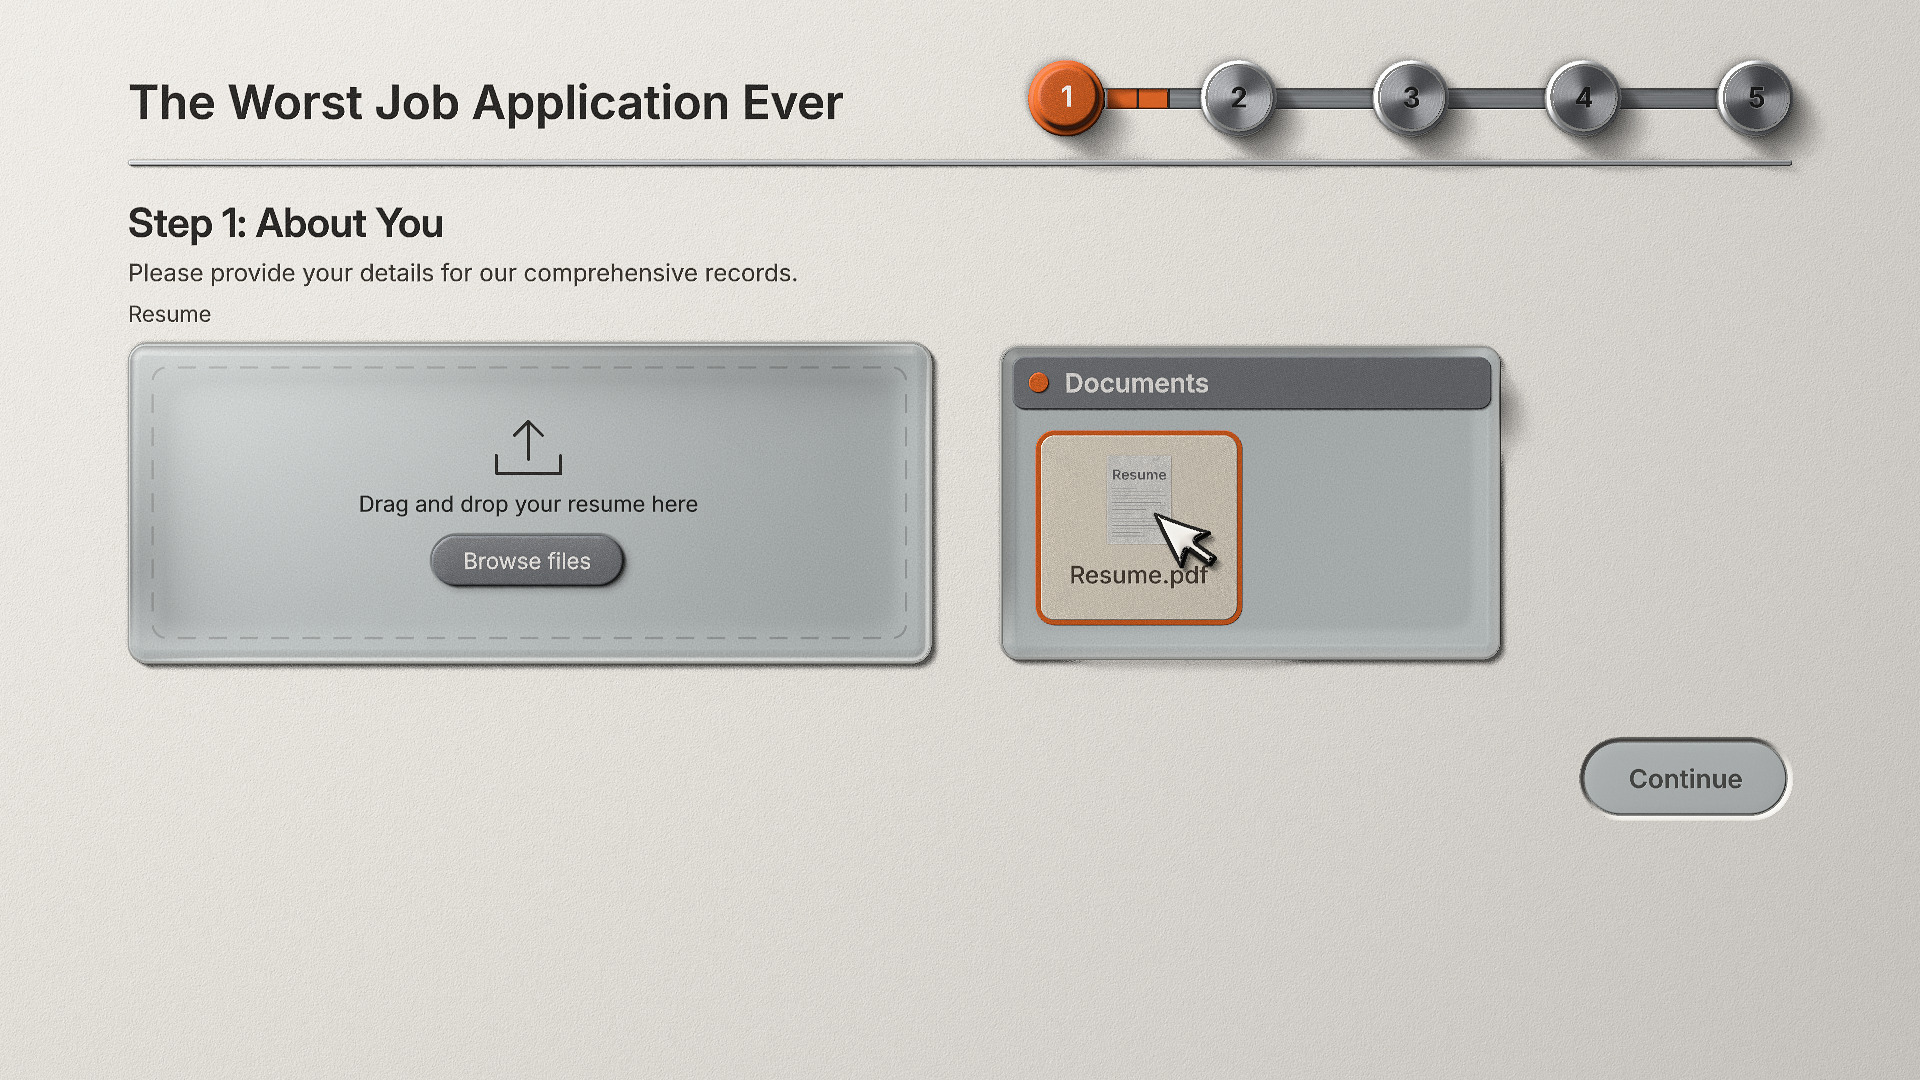
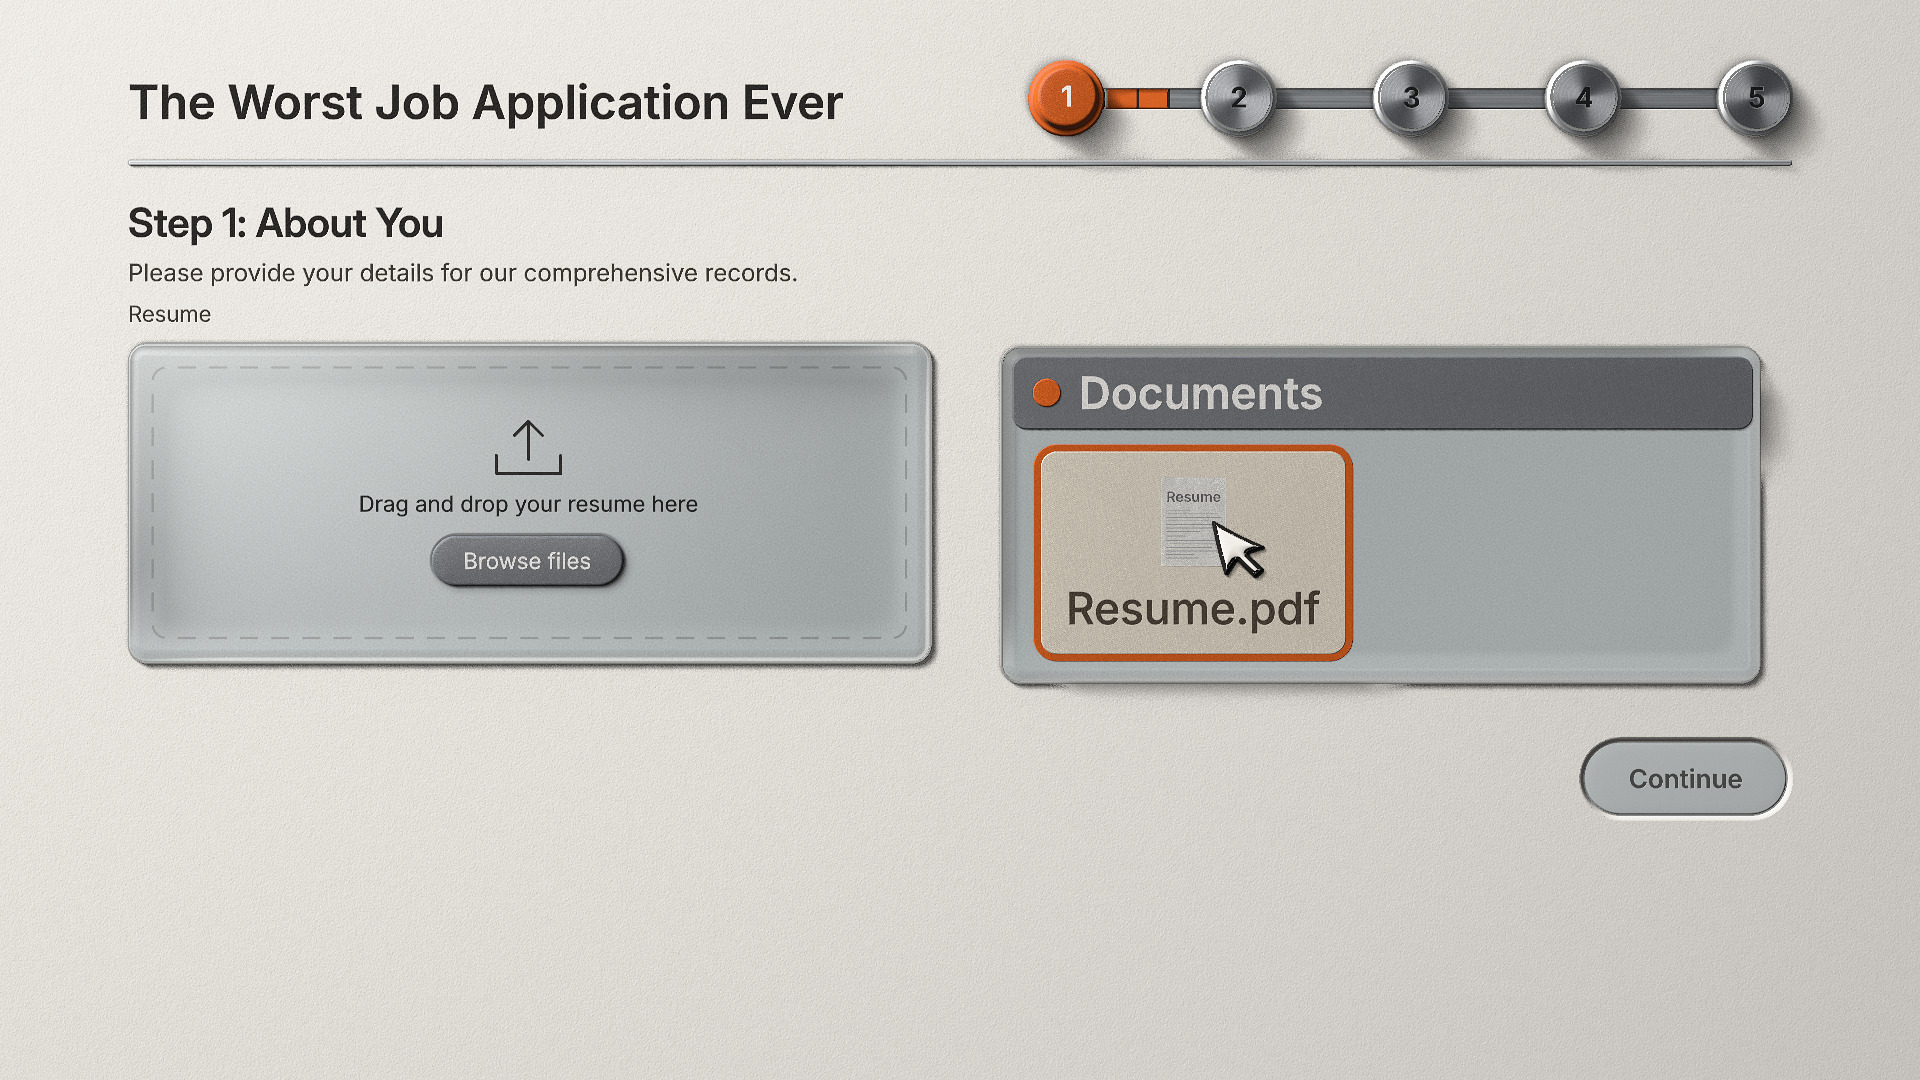
Resume stage: the folder window 760 px wide with its two words 32 px high, the ring lights when the drawn arrow is on the tile, the arrow no longer covers the file's name

Changed region(s): [[0.5, 0.3056, 0.9375, 0.6417]]

diff --git a/src/pages/step1/resume/layout.ts b/src/pages/step1/resume/layout.ts
@@ -20,15 +20,15 @@ export const ZONE = { x: LEFT, y: HEADER.contentY + 36, w: COL_W, h: ZONE_H }
 export const FORM_BOTTOM = ZONE.y + ZONE.h
 export const PAPER = { w: 64, h: 88, inset: 5, top: 14, bar: 2 }
 // The folder window: a pane of glass that comes up out of the page on the bare half beside the drop zone, with a bar across its head, a knob on the bar, and one tile that holds the one file. `top` is how high the pane stands once it is up.
-export const WIN = { x: HALF_X + 12, y: ZONE.y + 4, w: 500, h: 314, r: 18, top: heights.card + 2 }
-export const BAR = { inset: 12, h: 52, up: 5, r: 12, knob: 20 }
-export const TILE = { x: WIN.x + 40, y: WIN.y + BAR.inset + BAR.h + 26, w: 196, h: 184, r: 14, up: 3 }
+export const WIN = { x: HALF_X + 12, y: ZONE.y + 4, w: 760, h: 338, r: 20, top: heights.card + 2 }
+export const BAR = { inset: 12, h: 72, up: 5, r: 14, knob: 28 }
+export const TILE = { x: WIN.x + 40, y: WIN.y + BAR.inset + BAR.h + 22, w: 304, h: 202, r: 16, up: 3, gap: 26 }
 // The rim that lights round the tile under the arrow and when the file is picked: orange, this far outside the tile and this high.
-export const RING = { out: 5, up: 1.2 }
+export const RING = { out: 7, up: 1.2 }
 // The sheet lies in the tile as the file's own picture, and comes down in the drop zone on its upload mark.
-export const PAPER_REST = { x: TILE.x + (TILE.w - PAPER.w) / 2, y: TILE.y + 20 }
-export const FILE_TYPE = { font: 'inter-500', px: 24, align: 'centre' as const }
-export const WIN_TYPE = { font: 'inter-600', px: 26 }
+export const PAPER_REST = { x: TILE.x + (TILE.w - PAPER.w) / 2, y: TILE.y + 26 }
+export const FILE_TYPE = { font: 'inter-500', px: 44, align: 'centre' as const }
+export const WIN_TYPE = { font: 'inter-600', px: 44 }
 export const PAPER_TITLE = { font: 'inter-600', px: 14 }
 export const PAPER_LINES = [0.36, 0.44, 0.52, 0.6, 0.7, 0.78, 0.86]
 export const SLOT = { w: 96, h: 10, cx: ZONE.x + ZONE.w * 0.84, cy: FORM_BOTTOM + 9 }
@@ -78,11 +78,11 @@ export const landing = (): { x: number; y: number } => ({ x: ZONE.x + ZONE.w / 2
 export function folderNode(): LayoutNode {
   const bar = { x: WIN.x + BAR.inset, y: WIN.y + BAR.inset, w: WIN.w - BAR.inset * 2, h: BAR.h }
   const barTop = WIN.top + BAR.up
-  const knob = node('resume-folder-knob', 'knob', [bar.x + 16, bar.y + (bar.h - BAR.knob) / 2, BAR.knob, BAR.knob], { part: 'shell', shape: 'disc', floor: barTop, height: barTop + 4, tone: 'accent' })
-  const title = text('resume-folder-title', 'copy:drafts.step1.resume.folderTitle', WIN_TYPE, bar.x + 16 + BAR.knob + 16, bar.y + (bar.h - cap(WIN_TYPE.font, WIN_TYPE.px)) / 2, { part: 'type', on: barTop, tone: 'inkLight' })
+  const knob = node('resume-folder-knob', 'knob', [bar.x + 20, bar.y + (bar.h - BAR.knob) / 2, BAR.knob, BAR.knob], { part: 'shell', shape: 'disc', floor: barTop, height: barTop + 4, tone: 'accent' })
+  const title = text('resume-folder-title', 'copy:drafts.step1.resume.folderTitle', WIN_TYPE, bar.x + 20 + BAR.knob + 18, bar.y + (bar.h - cap(WIN_TYPE.font, WIN_TYPE.px)) / 2, { part: 'type', on: barTop, tone: 'inkLight' })
   const head = node('resume-folder-bar', 'windowBar', [bar.x, bar.y, bar.w, bar.h], { part: 'shell', r: BAR.r, floor: WIN.top, height: barTop, tone: 'metal', children: [knob, title] })
   const tileTop = WIN.top + TILE.up
-  const name = text('resume-file-name', 'copy:drafts.step1.resume.fileName', FILE_TYPE, TILE.x + TILE.w / 2, PAPER_REST.y + PAPER.h + 22, { part: 'type', on: tileTop })
+  const name = text('resume-file-name', 'copy:drafts.step1.resume.fileName', FILE_TYPE, TILE.x + TILE.w / 2, PAPER_REST.y + PAPER.h + TILE.gap, { part: 'type', on: tileTop })
   const tile = node('resume-file', 'fileTile', [TILE.x, TILE.y, TILE.w, TILE.h], { part: 'shell', r: TILE.r, floor: WIN.top, height: tileTop, tone: 'raised', children: [name] })
   return node('resume-folder', 'card', [WIN.x, WIN.y, WIN.w, WIN.h], { part: 'shell', r: WIN.r, height: WIN.top, over: true, states: ['folder'], children: [head, tile] })
 }

diff --git a/src/pages/step1/resume/index.ts b/src/pages/step1/resume/index.ts
@@ -212,7 +212,7 @@ export function makeResume(host: ResumeHost): ResumeStage {
     }
     if (f.at === 'folder') {
       const ready = f.t >= flow.pop * 0.6
-      f.lit = ready && inside(tile, io.pointer.x, io.pointer.y, GRAB / 2)
+      f.lit = ready && inside(tile, io.cursor.x, io.cursor.y, 0)
       if (ready && ((io.pressed && inside(tile, io.pointer.x, io.pointer.y, GRAB)) || (idle && f.t >= FLOW.wait))) {
         beat('lit')
         f.lit = true
@@ -794,7 +794,7 @@ export function makeResume(host: ResumeHost): ResumeStage {
         const flow = pace()
         if (s.phase === 'idle' || f.at === 'field') return { x: chip.x + chip.w / 2, y: chip.y + chip.h / 2, down: s.phase === 'resume' && blink }
         if (f.at === 'press') return { x: chip.x + chip.w / 2, y: chip.y + chip.h / 2, down: false }
-        if (f.at === 'folder') return { x: TILE.x + TILE.w / 2, y: TILE.y + TILE.h * 0.6, down: f.t >= flow.pop && blink }
+        if (f.at === 'folder') return { x: TILE.x + TILE.w / 2, y: PAPER_REST.y + PAPER.h / 2, down: f.t >= flow.pop && blink }
         return { x: stand.x, y: stand.y, down: false }
       }
       if (s.phase === 'tug') return { x: SLOT.cx - 90, y: SLOT.cy - 260, down: false }

diff --git a/src/pages/step1/resume/script.ts b/src/pages/step1/resume/script.ts
@@ -36,7 +36,7 @@ export const AFTER = { look: 3.35, up: [3.05, 2.45] as [number, number], under: 
 // The film before the bite, every time a second of the unit: a wind-up where it stands, a strut to Browse files, a look at the ordinary field, the press; a start at the folder, a walk to the file, the pick; proud, it struts back to stand by its sheet in the drop zone and dusts itself off; the wind makes it start and it runs after the sheet. `drop` is the second the wind lets the sheet go over the slot.
 export const RESUME = {
   leave: 19.9, walk: [20.1, 20.6] as [number, number], on: { x: 12, y: 6 }, press: 20.85,
-  see: 20.97, toFile: [21.06, 21.36] as [number, number], file: { x: 8, y: 14 }, pick: 21.5,
+  see: 20.97, toFile: [21.06, 21.36] as [number, number], file: { x: 12, y: 0 }, pick: 21.5,
   proud: 21.66, back: [21.76, 22.16] as [number, number], beside: { x: 58, y: 66 }, dust: 22.2,
   gust: 22.36, chase: [22.58, 23.02] as [number, number], near: { x: -96, y: -176 },
   raise: 0, high: 0, drop: 21.62 + LATE

diff --git a/pipeline/change002/resume.md b/pipeline/change002/resume.md
@@ -34,9 +34,11 @@ All from `content/copy-drafts.json`, none added, no file under `content/` edited
 
 | Word | Key | Stands on | Box of the words | Shown |
 | --- | --- | --- | --- | --- |
-| "Documents" | `copy.drafts.step1.resume.folderTitle` | the brushed bar of the folder window (bar x 1012, y 358, 476 by 52; window x 1000, y 346, 500 by 314, on the bare page right of the drop zone) | x 1064, y 375, 144 by 19 | from `folder-open` until the window sinks, 20.96 to 21.87 s in the film |
-| "Resume.pdf" | `copy.drafts.step1.resume.fileName` | the file tile in the folder window (tile x 1040, y 436, 196 by 184), under the small sheet | x 1069, y 566, 138 by 17 | with the window |
+| "Documents" | `copy.drafts.step1.resume.folderTitle` | the brushed bar of the folder window (bar x 1012, y 358, 736 by 72; window x 1000, y 346, 760 by 338, on the bare page right of the drop zone, 54 px over Continue) | x 1078, y 378, 243 by 32 | from `folder-open` until the window sinks, 20.96 to 21.87 s in the film |
+| "Resume.pdf" | `copy.drafts.step1.resume.fileName` | the file tile in the folder window (tile x 1040, y 452, 304 by 202), under the small sheet | x 1065, y 592, 253 by 32 | with the window |
 | "SHREDDER" | `copy.drafts.step1.resume.shredderLabel` | the orange plate on the bare page left of the slot (plate x 511, y 672, 226 by 52) | x 533, y 686, 182 by 25 | from the wind until the machine sinks after the message |
+
+The folder window was made larger, not longer, by the Builder's word of 23:19Z: 760 px wide where it was 500, its two words 32 px high where they were 19 and 17 (type 44 px), the tile 304 by 202; the seconds are the same. I chose the larger window over a nearer camera because the live site has no camera, and the film's camera would have had to go in and out again inside 0.9 s before its one move to the tug. The sheet in the tile keeps its real size, 64 by 88, so it is small beside its name. (MEASURED for the boxes, STATED for the reason)
 
 Words that were there before and are unchanged: "Resume", "Drag and drop your resume here", "Browse files", "Resume" on the sheet, "Resume received. Please re-enter all information manually."
 
@@ -126,7 +128,7 @@ One clean film frame of each stage at 1920 by 1080, home camera, draft tier, wit
 | --- | --- | --- |
 | `clean-1-browse-1920x1080.jpg` | the arrow presses Browse files | 20.90 |
 | `clean-2-folder-open-1920x1080.jpg` | the folder window is up | 21.20 |
-| `clean-3-file-picked-1920x1080.jpg` | the file is picked, ring lit (the arrow covers part of the file's name) | 21.56 |
+| `clean-3-file-picked-1920x1080.jpg` | the file is picked, ring lit | 21.56 |
 | `clean-4-slot-1920x1080.jpg` | the sheet lies in the drop zone | 22.20 |
 | `clean-5-wind-1920x1080.jpg` | the wind carries it; the plate is up | 22.75 |
 | `clean-6-shredder-label-1920x1080.jpg` | the slot has it, beside the plate SHREDDER | 23.40 |
